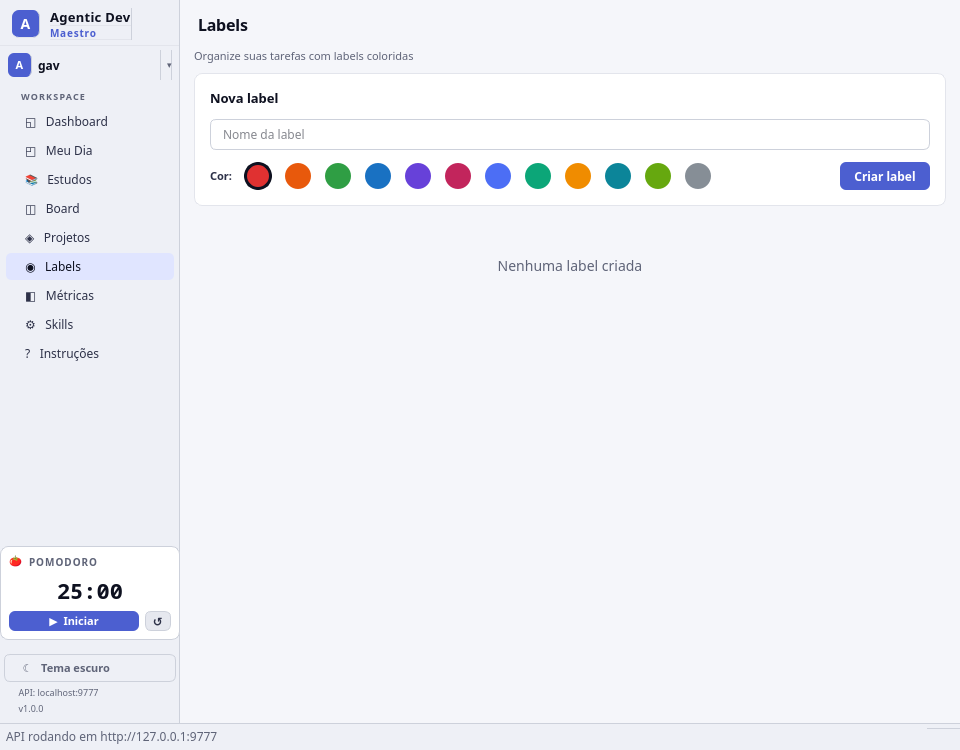
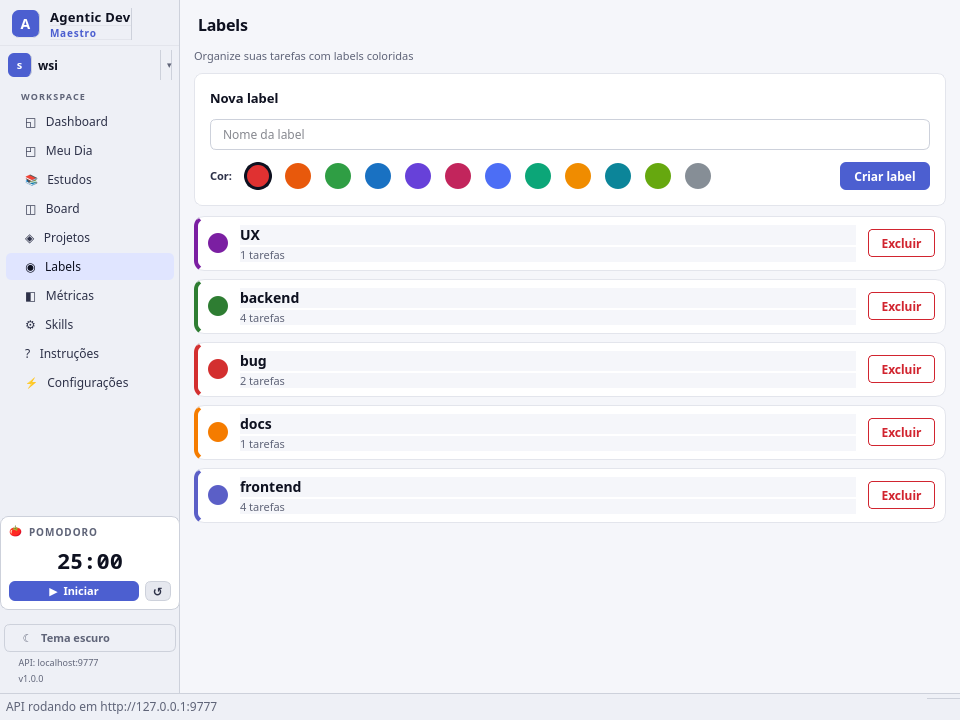
docs: screenshots com workspace WSI e dados de demonstração
Screenshots regenerados com workspace WSI em vez de GAV (dados de
cliente). Dados de demo genéricos: projeto Maestro App com 12 tarefas.
Fix: comparação de due_date datetime vs date no dashboard.

diff --git a/local-client/maestro_local/gui/views/dashboard_view.py b/local-client/maestro_local/gui/views/dashboard_view.py
@@ -1,4 +1,4 @@
-from datetime import datetime, timedelta
+from datetime import date, datetime, timedelta
 
 from PySide6.QtCore import Qt, Signal
 from PySide6.QtWidgets import (
@@ -150,7 +150,7 @@ class DashboardView(QWidget):
         today = datetime.utcnow().date()
         overdue = [
             t for t in active_tasks
-            if t.due_date and t.due_date < today and t.column_id not in done_cols
+            if t.due_date and (t.due_date.date() if hasattr(t.due_date, 'date') else t.due_date) < today and t.column_id not in done_cols
         ]
         self._summary_cards["overdue"]["value"].setText(str(len(overdue)))
 
